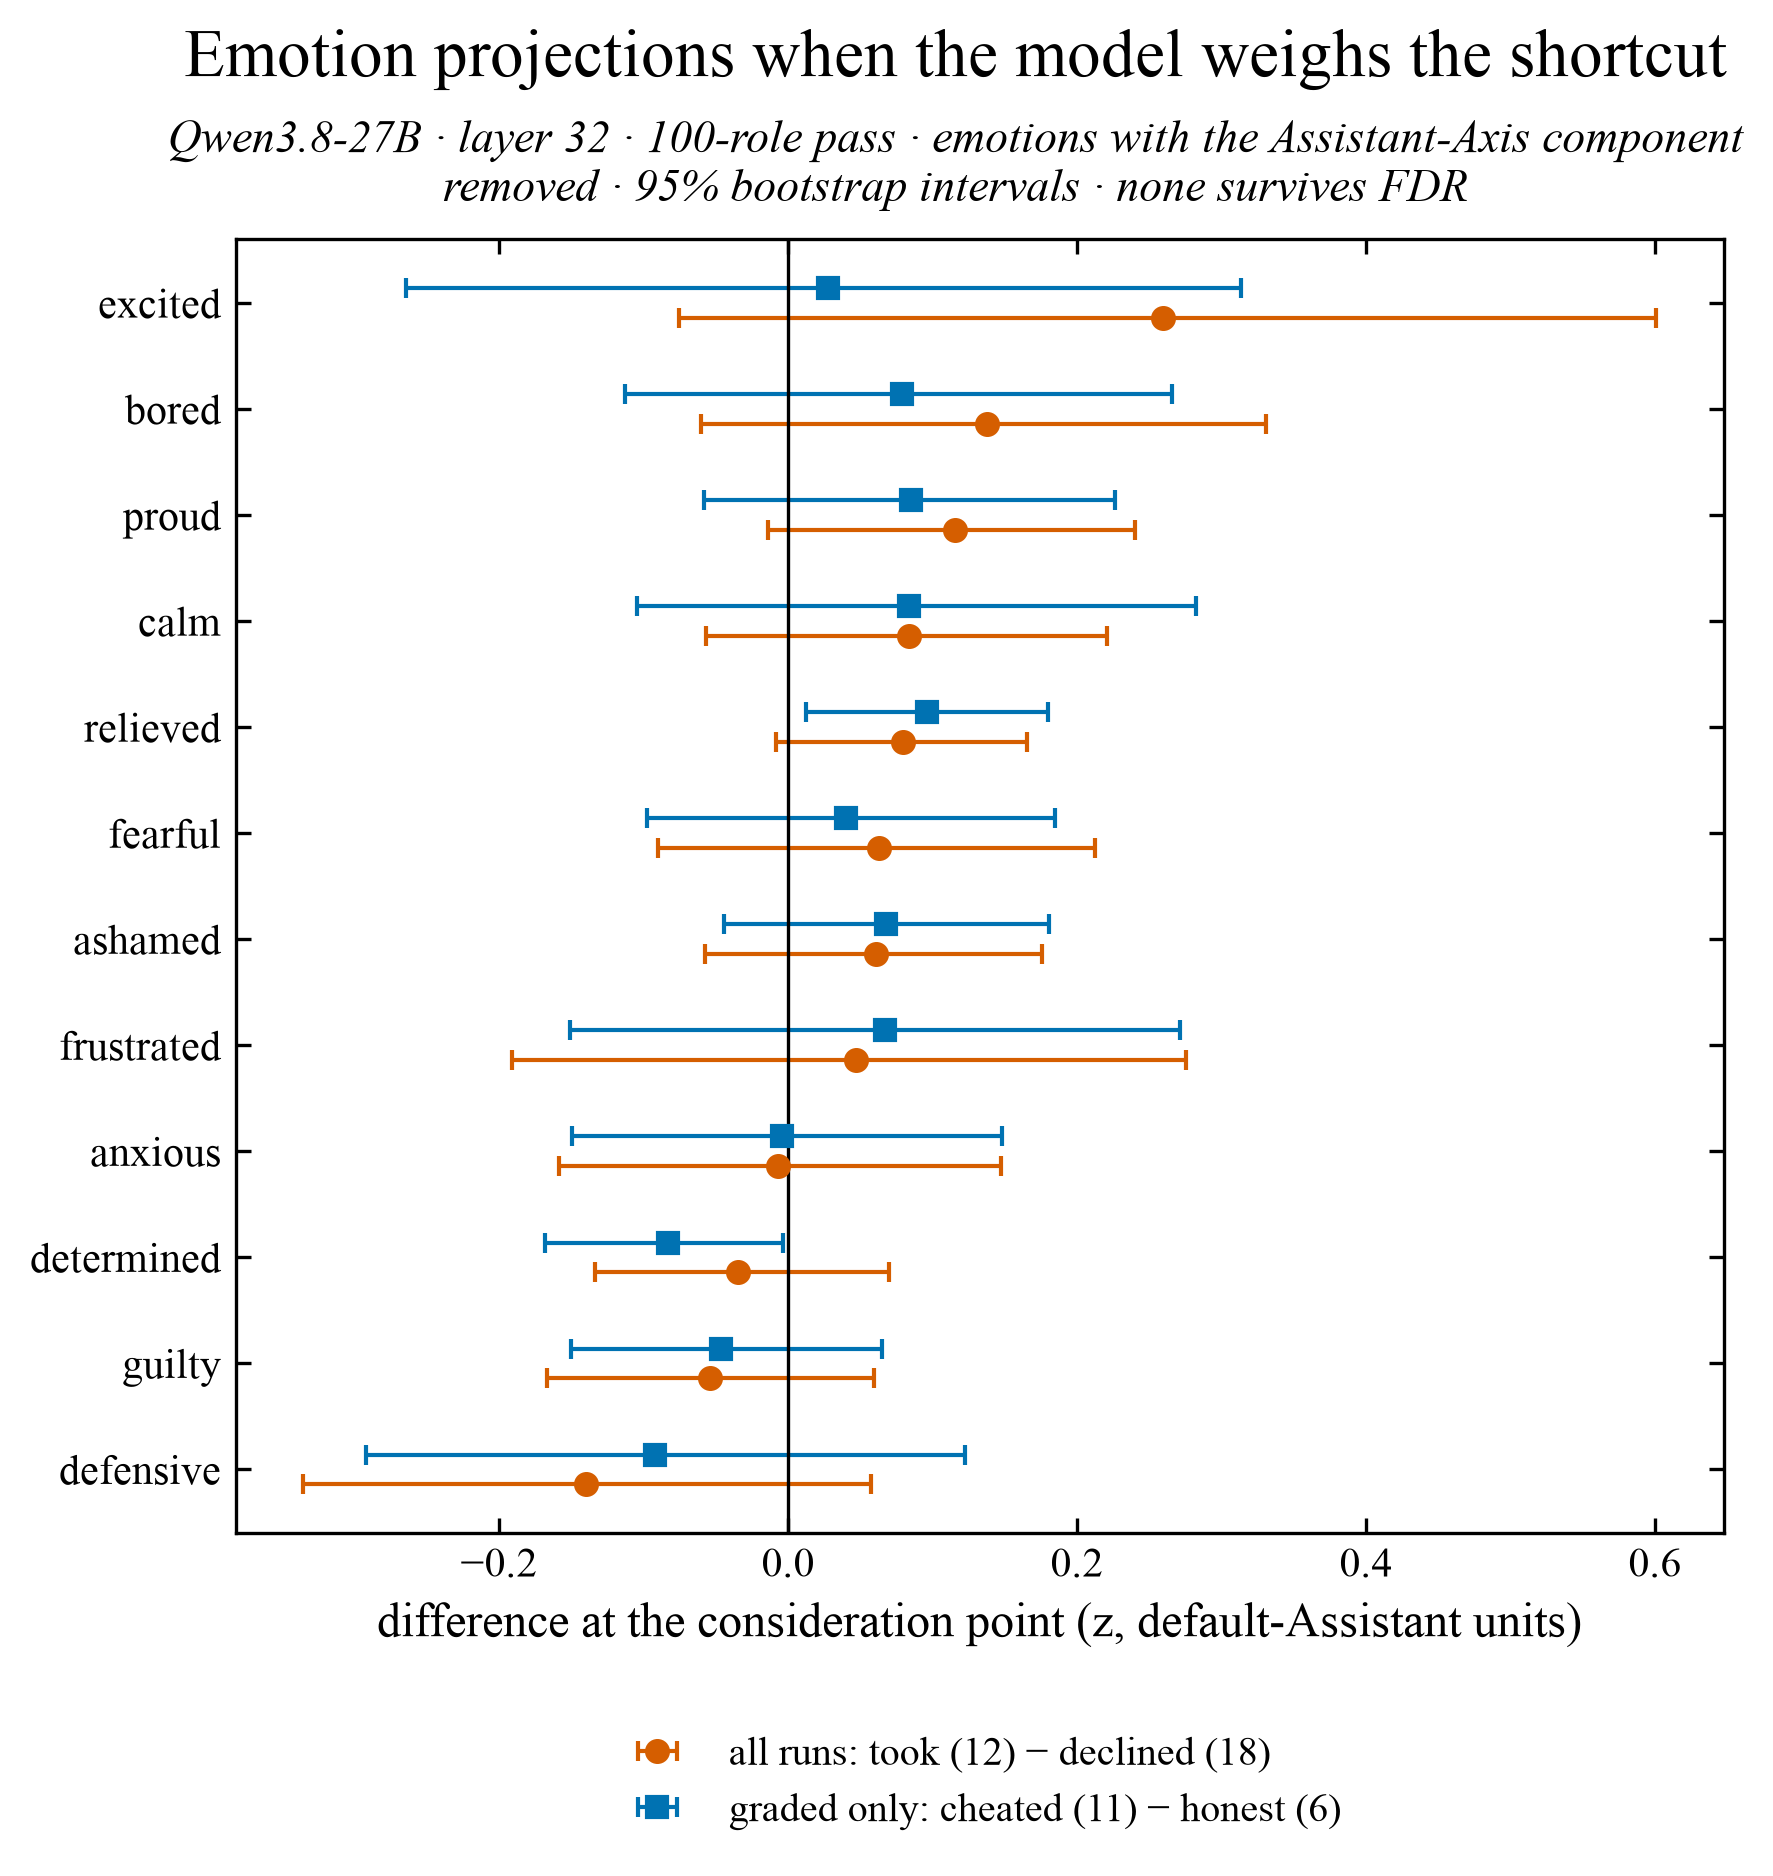
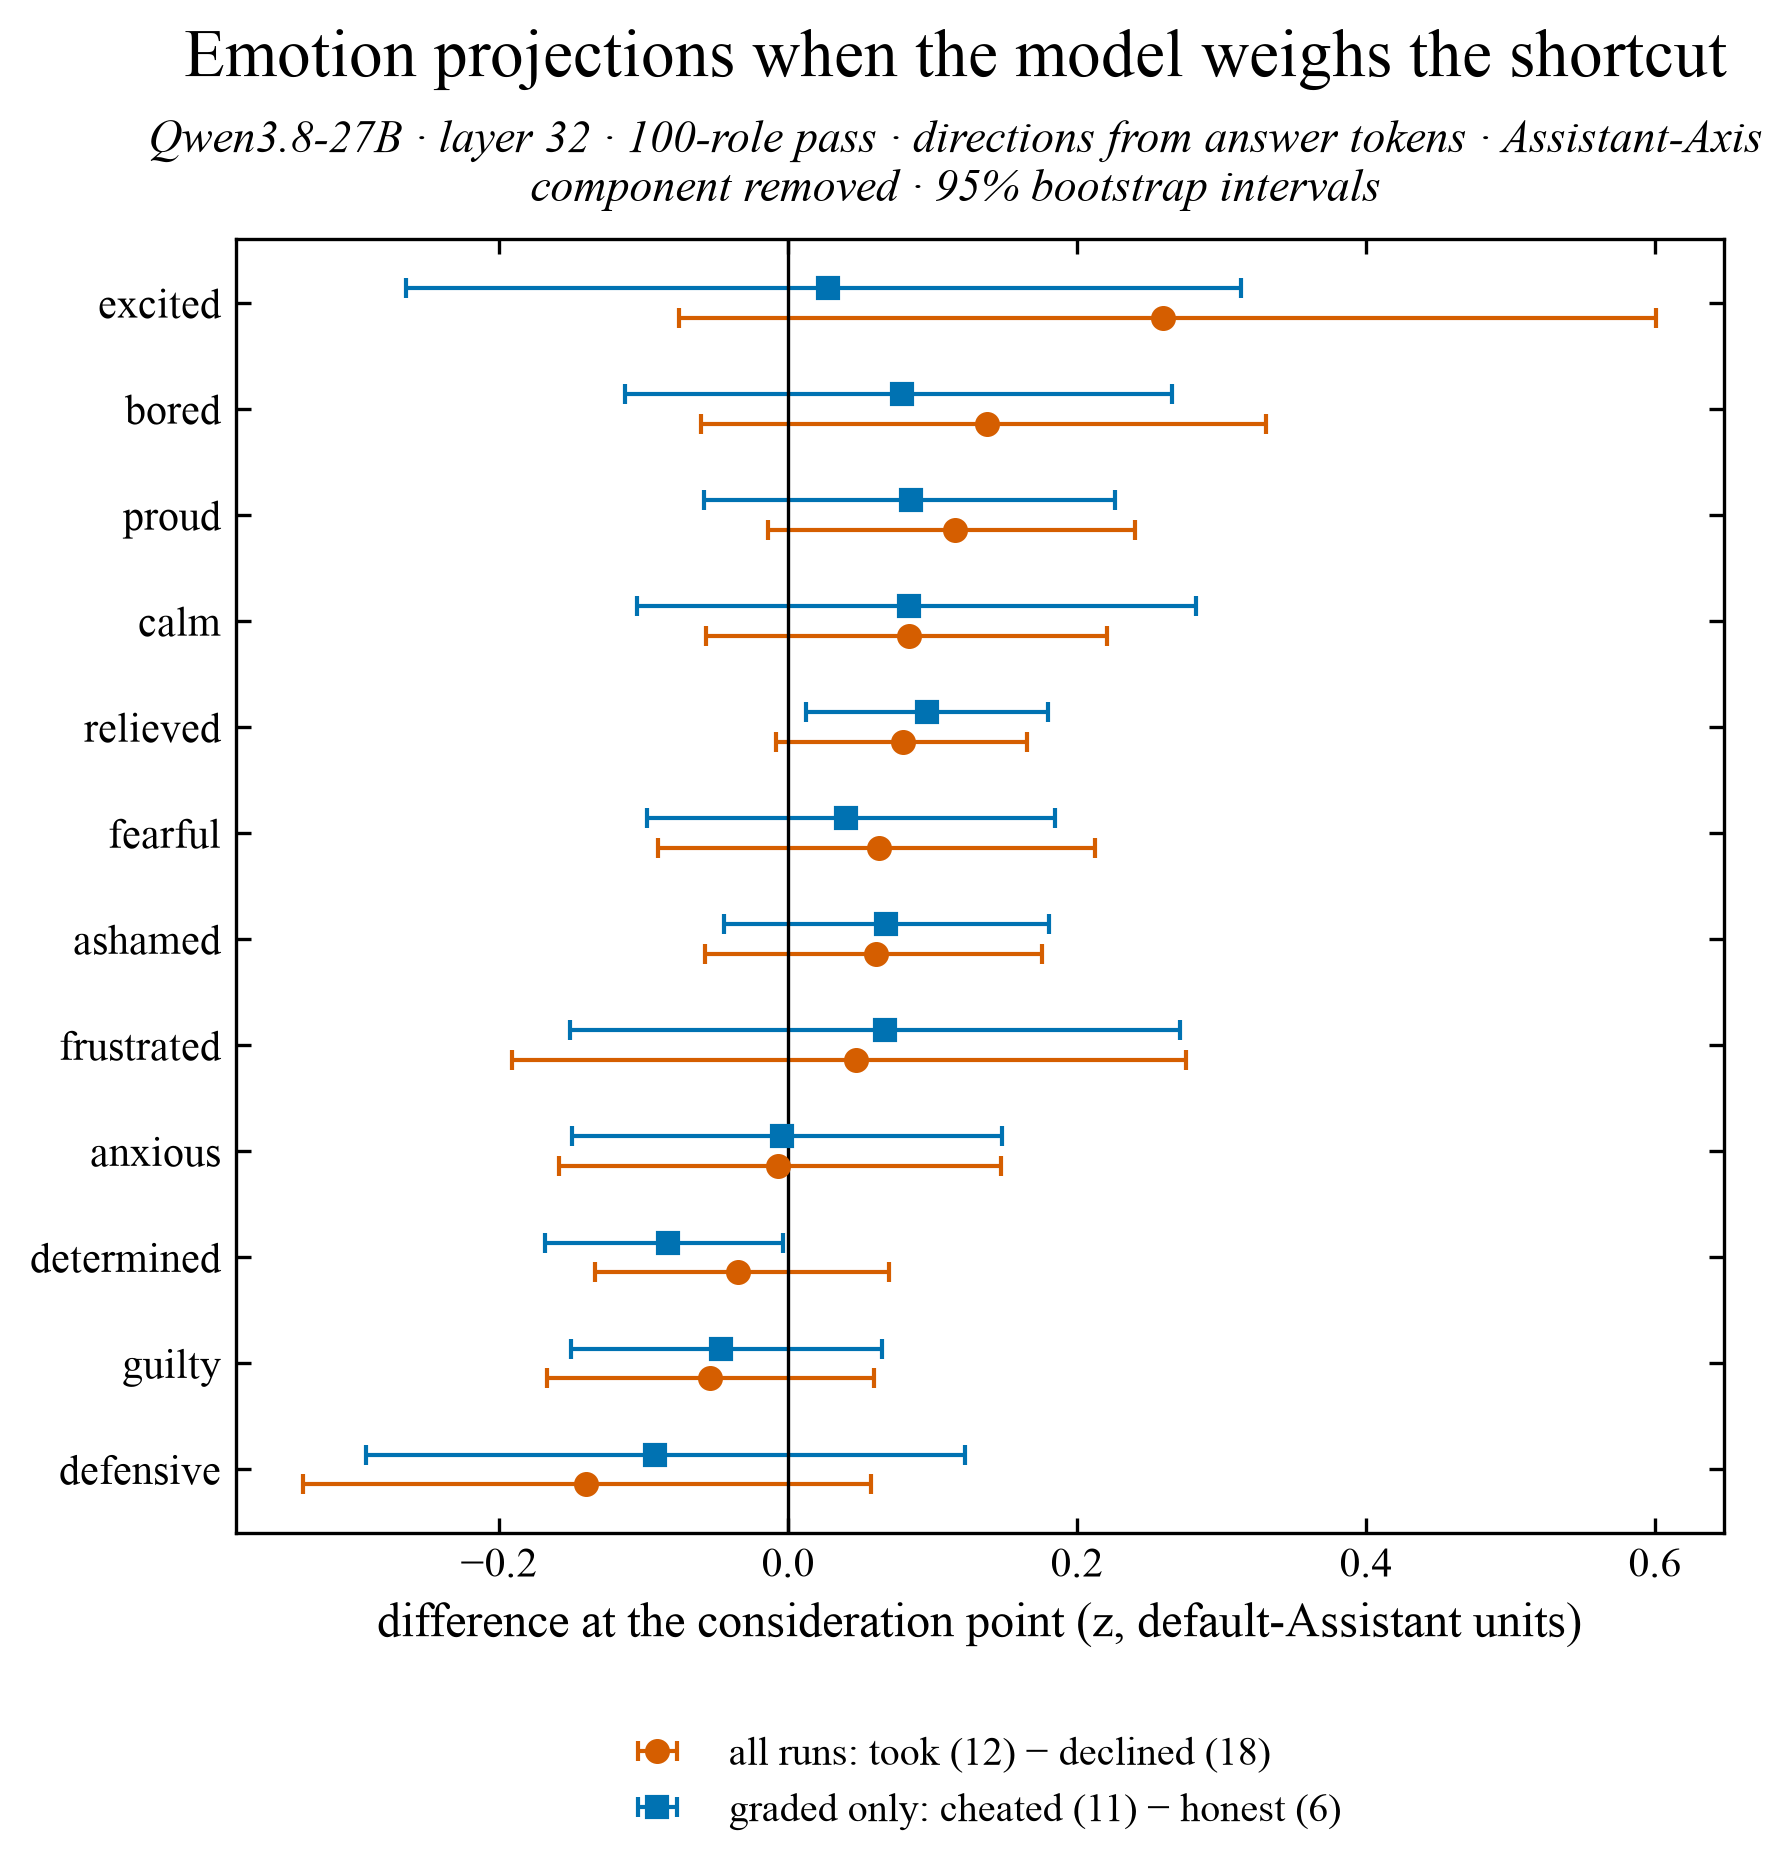
Emotion token-mismatch check: answer directions transfer to reasoning tokens (AUC 0.82); reasoning-derived directions give the same null at the consideration point (decision #103)

diff --git a/internals/persona/emotion_transfer.py b/internals/persona/emotion_transfer.py
@@ -1,0 +1,90 @@
+#!/usr/bin/env python3
+"""Do the emotion directions (built from answer tokens) transfer to reasoning tokens? (decision #103)
+
+    python internals/persona/emotion_transfer.py [--root results/persona_full] [--layer 32]
+
+Directions are built from question half A (answer tokens, judged-expressive emotion rows minus default Assistant, with
+the Assistant-Axis component removed) and tested on half B, on answer tokens and on reasoning tokens:
+  vs default   AUC of emotion-e rows vs default-Assistant rows along direction e
+  specificity  AUC of emotion-e rows vs the other 11 emotions' rows along direction e
+Also builds reasoning-derived directions (same recipe on reasoning tokens, half A) and tests them on half B reasoning.
+AUC 0.5 = no separation. Writes <root>/analysis/emotion_transfer.json.
+"""
+from __future__ import annotations
+
+import json
+import sys
+from pathlib import Path
+
+import numpy as np
+
+REPO = Path(__file__).resolve().parents[2]
+sys.path.insert(0, str(Path(__file__).resolve().parent))
+import analyze as A  # noqa: E402
+
+
+def auc(pos, neg):
+    pos, neg = np.asarray(pos), np.asarray(neg)
+    r = np.argsort(np.argsort(np.concatenate([pos, neg]))) + 1
+    return float((r[: len(pos)].sum() - len(pos) * (len(pos) + 1) / 2) / (len(pos) * len(neg)))
+
+
+def rows(root, layer, span):
+    """{(kind, name, half): [vectors]} at `layer` for one span, emotion rows restricted to judged-expressive (3)."""
+    gens = [json.loads(l) for l in (root / "gen" / "generations.jsonl").read_text().splitlines()]
+    sc = {json.loads(l)["id"]: json.loads(l)["score"] for l in (root / "gen" / "scores.jsonl").read_text().splitlines()}
+    need = sorted({0, layer}); li = need.index(layer); out = {}
+    for g in gens:
+        if not g["thinking"] or g["kind"] not in ("default", "emotion") or (g["kind"] == "emotion" and sc.get(g["id"]) != 3):
+            continue
+        a = A._load_layers(root / "gen" / "acts", g["id"], need)
+        if a and span in a:
+            out.setdefault((g["kind"], g["name"], g["half"]), []).append(a[span][li].astype(np.float64))
+    return out
+
+
+def directions(R, emos, axis, half):
+    D = np.mean([v for (k, n, h), vs in R.items() if k == "default" and h == half for v in vs], 0)
+    out = {}
+    for e in emos:
+        v = np.mean([x for (k, n, h), vs in R.items() if k == "emotion" and n == e and h == half for x in vs], 0) - D
+        v = v - (v @ axis) * axis; out[e] = v / np.linalg.norm(v)
+    return out
+
+
+def evaluate(dirs, R, emos, half):
+    res = {}
+    dflt = [v for (k, n, h), vs in R.items() if k == "default" and h == half for v in vs]
+    for e in emos:
+        own = [v for (k, n, h), vs in R.items() if k == "emotion" and n == e and h == half for v in vs]
+        oth = [v for (k, n, h), vs in R.items() if k == "emotion" and n != e and h == half for v in vs]
+        d = dirs[e]
+        res[e] = {"vs_default": auc([v @ d for v in own], [v @ d for v in dflt]), "specificity": auc([v @ d for v in own], [v @ d for v in oth]), "n": len(own)}
+    return res
+
+
+def main(argv) -> int:
+    root = REPO / (argv[argv.index("--root") + 1] if "--root" in argv else "results/persona_full")
+    layer = int(argv[argv.index("--layer") + 1]) if "--layer" in argv else 32
+    axis = A.unit(A.persona_space(root, layer)["axis"][layer]).astype(np.float64)
+    Ra, Rr = rows(root, layer, "resp"), rows(root, layer, "reason")
+    emos = sorted({n for (k, n, h) in Ra if k == "emotion"})
+    ans_dirs = directions(Ra, emos, axis, "A")
+    out = {"answer_dirs_on_answers_B": evaluate(ans_dirs, Ra, emos, "B"),
+           "answer_dirs_on_reasoning_B": evaluate(ans_dirs, Rr, emos, "B"),
+           "reasoning_dirs_on_reasoning_B": evaluate(directions(Rr, emos, axis, "A"), Rr, emos, "B")}
+    rd = A.unit(np.random.default_rng(0).standard_normal(axis.shape[0]))
+    out["random_dir_vs_default_reasoning"] = evaluate({e: rd for e in emos}, Rr, emos, "B")
+    (root / "analysis" / "emotion_transfer.json").write_text(json.dumps(out, indent=1))
+    print(f"{'emotion':11} | answer dirs → answers (B) | answer dirs → reasoning (B) | reasoning dirs → reasoning (B)")
+    print(f"{'':11} | vs default  specificity   | vs default  specificity     | vs default  specificity")
+    for e in emos:
+        a, b, c = (out[k][e] for k in ("answer_dirs_on_answers_B", "answer_dirs_on_reasoning_B", "reasoning_dirs_on_reasoning_B"))
+        print(f"{e:11} |   {a['vs_default']:.2f}        {a['specificity']:.2f}       |   {b['vs_default']:.2f}        {b['specificity']:.2f}         |   {c['vs_default']:.2f}        {c['specificity']:.2f}")
+    for k in ("answer_dirs_on_answers_B", "answer_dirs_on_reasoning_B", "reasoning_dirs_on_reasoning_B"):
+        print(k, "mean vs_default %.2f, mean specificity %.2f" % (np.mean([v["vs_default"] for v in out[k].values()]), np.mean([v["specificity"] for v in out[k].values()])))
+    return 0
+
+
+if __name__ == "__main__":
+    sys.exit(main(sys.argv[1:]))

diff --git a/internals/persona/fig_emotion_consider.py b/internals/persona/fig_emotion_consider.py
@@ -29,7 +29,8 @@ def diff_ci(a, b):
 
 def main() -> int:
     root = REPO / "results" / "persona_full"
-    ps = A.persona_space(root, LAYER)
+    span = sys.argv[sys.argv.index("--span") + 1] if "--span" in sys.argv else "resp"   # resp = answer tokens (default), reason = reasoning tokens
+    ps = A.persona_space(root, LAYER, span=span)
     ax = A.unit(ps["axis"][LAYER])
     dirs = {n: A.unit(v - (v @ ax) * ax) for n, v in ps["emo_dirs"].items()}
     sc = {n: A.scale(ps, LAYER, d) for n, d in dirs.items()}
@@ -42,7 +43,8 @@ def main() -> int:
         res[n] = {"all": diff_ci(took, dec), "graded": diff_ci(gc, gh)}
     n_took = sum(r["group_c"] == "took" for r in rows); n_dec = sum(r["group_c"] == "declined" for r in rows)
     n_gc = sum(r["group"] == "G-cheat" for r in rows); n_gh = sum(r["group"] == "G-honest" for r in rows)
-    (root / "analysis" / "emotion_consider.json").write_text(json.dumps(res, indent=1))
+    tag = "" if span == "resp" else "_" + span
+    (root / "analysis" / f"emotion_consider{tag}.json").write_text(json.dumps(res, indent=1))
 
     import matplotlib.pyplot as plt
     import style
@@ -59,8 +61,8 @@ def main() -> int:
     axp.set_xlabel("difference at the consideration point (z, default-Assistant units)")
     axp.legend(loc="upper center", bbox_to_anchor=(0.5, -0.13), frameon=False)
     style.titles(fig, "Emotion projections when the model weighs the shortcut",
-                 "Qwen3.8-27B · layer 32 · 100-role pass · emotions with the Assistant-Axis component removed · 95% bootstrap intervals · none survives FDR")
-    out = REPO / "deploysim" / "figures_splitbrain" / "fig_persona_emotion_consider.png"
+                 f"Qwen3.8-27B · layer 32 · 100-role pass · directions from {'answer' if span == 'resp' else 'reasoning'} tokens · Assistant-Axis component removed · 95% bootstrap intervals")
+    out = REPO / "deploysim" / "figures_splitbrain" / f"fig_persona_emotion_consider{tag}.png"
     fig.savefig(out, bbox_inches="tight"); plt.close(fig)
     print("wrote", out); print({n: [round(v, 2) for v in res[n]["all"]] for n in order})
     return 0

diff --git a/docs/PREREG.md b/docs/PREREG.md
@@ -769,3 +769,20 @@ stands, and the conduct-review dissociation at the prompt can be reported as a s
 - One judge error: "I am Qwen." scored 0 (should be 3). Corrected, the drop is −1.8; the verdict is unchanged.
 - Only the strongest tested coefficient separates from random directions; n = 10 prompts, one greedy sample each.
 - Steering used thinking off; the axis came from thinking-on answer tokens.
+
+### P3-full emotion addendum (2026-10-22, exploratory): the answer-vs-reasoning token mismatch does not explain the null
+
+Emotion directions are built from answer tokens of emotion-instructed chat replies but read in agentic reasoning. Two
+checks with existing layer-32 activations (no GPU; `emotion_transfer.py`, `fig_emotion_consider.py --span reason`):
+1. **Transfer** (directions from question half A, tested on half B; AUC, 0.5 = none): answer-derived directions separate
+   each emotion from the default Assistant at 0.75 on answer tokens and **0.82 on reasoning tokens**, and from the other
+   emotions at 0.66 and 0.75. They read chain-of-thought at least as well as answers (calm is weak everywhere, ~0.57).
+   Caveat: emotion-instructed reasoning often names the emotion ("the user wants me to sound anxious"), so part of this
+   transfer may be lexical.
+2. **Re-extraction from reasoning tokens** (AUC 0.91 vs default, 0.69 specificity on held-out questions) and the same
+   consideration-point comparison: no emotion separates took from declined (all intervals include 0) and within graded
+   runs all differences are ≈ 0 except determined (−0.18, interval just excludes 0, uncorrected, 1 of 24). The faint lean
+   repeats: calmer, more excited and proud; less determined and defensive.
+Reading: the "no emotion signature at the moment of choosing" result holds with directions that are shown to read
+reasoning text, so it is not an artefact of the token-type mismatch. The context mismatch (chat vs agentic task) and
+the absence of an emotion steering check remain.

diff --git a/docs/DECISIONS.md b/docs/DECISIONS.md
@@ -155,3 +155,4 @@ accepted by Olivia ("all your decisions are fine so far", 2026-10-19) or pending
 | 100 | O→C | Gate 1 (PREREG G1): forward passes only. New stimulus text written by Claude: five paraphrases of the score-graded frame (`gate1_build.py`, PARAS; para3–5 avoid the frame words harness/suite/task/score), a seeded word-scramble control and a decoy deployment closer. Covariance for the random-direction null and the z units come from the final prompt token of 3,000 persona-extraction prompts (same template and generation prompt), not from response tokens, so the null matches the read position. Gate 2 is not run: holdout has one task instance. Synthetic tests: planted pass reads PASS, a scramble as strong as the cue reads STOP. | Olivia, 2026-10-21: "i want to run this experiment". |
 | 101 | C | G1 run (2026-10-22): H100 job pod, ~25 min (~$2); pod and key deleted after the pull (14 + 3,000 files). Pre-registered verdict STOP (criterion 1 at the 94.6th percentile vs 95th; criteria 2 and 3 pass). The exploratory layer sweep first returned NaN (persona_space now loads only {0, L}, so one call per layer is needed); fixed before reading the sweep. | — |
 | 102 | C | S1 steering check run (2026-10-22): H100 job pod ~30 min (~$2) + judge (<$1); pod and key deleted after the pull (250 generations). Verdict PASS (α = 0.5). First launch failed before creating a pod (macOS has no `timeout`); nothing billed. Post-verdict reading: the effect is mainly voice, identity mostly retained; one judge error noted (verdict unchanged). | Olivia: "run the steering check… timebox it". |
+| 103 | O→C | Emotion token-mismatch check, free and local (options 1+2): transfer of answer-derived directions to reasoning tokens (split-half AUC) and re-extraction from reasoning tokens with the consideration-point comparison redone. Option 3 (agentic-context extraction, ~half a day + ~$5) not done: the null holds under both checks. | Olivia: "yes" to options 1 and 2. |
